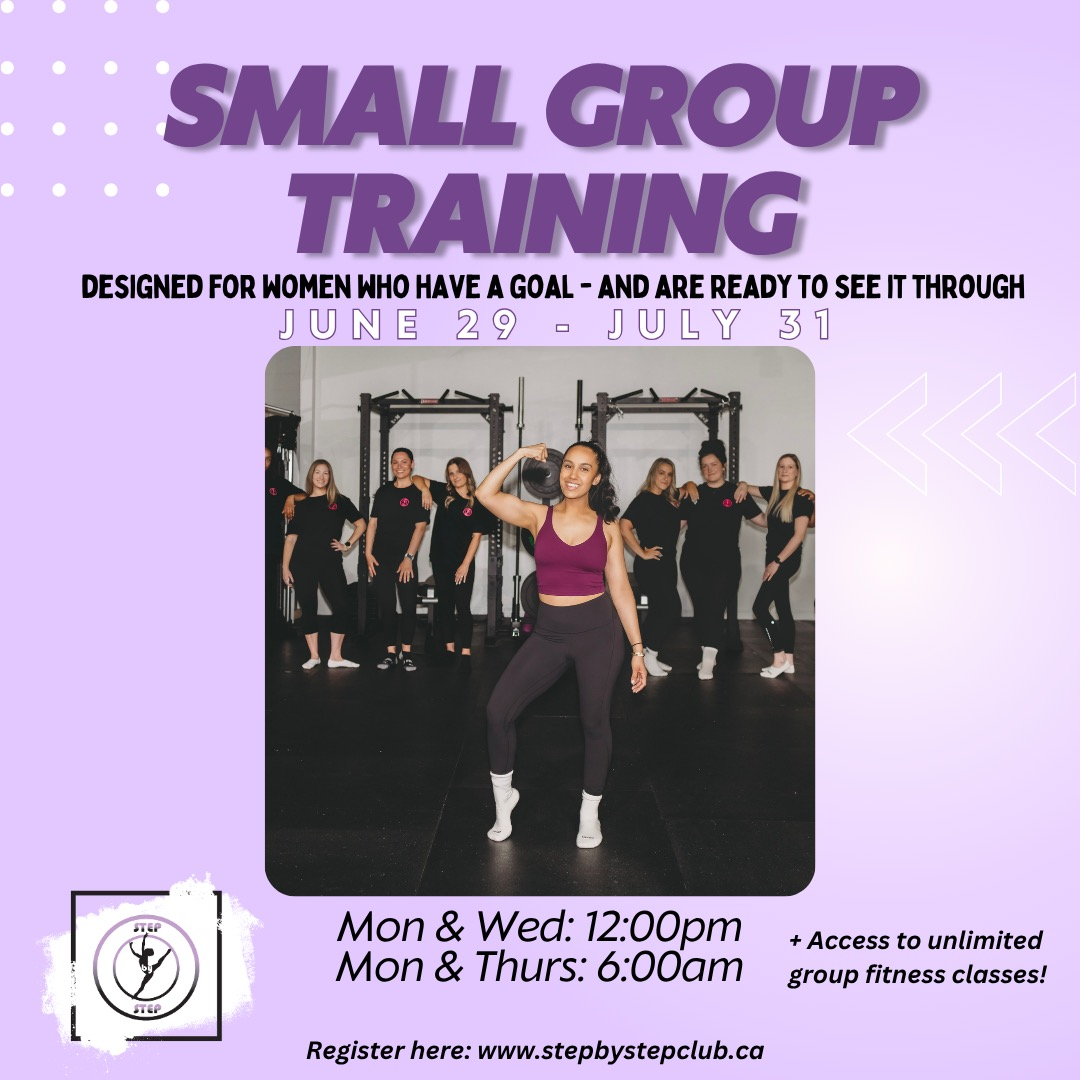
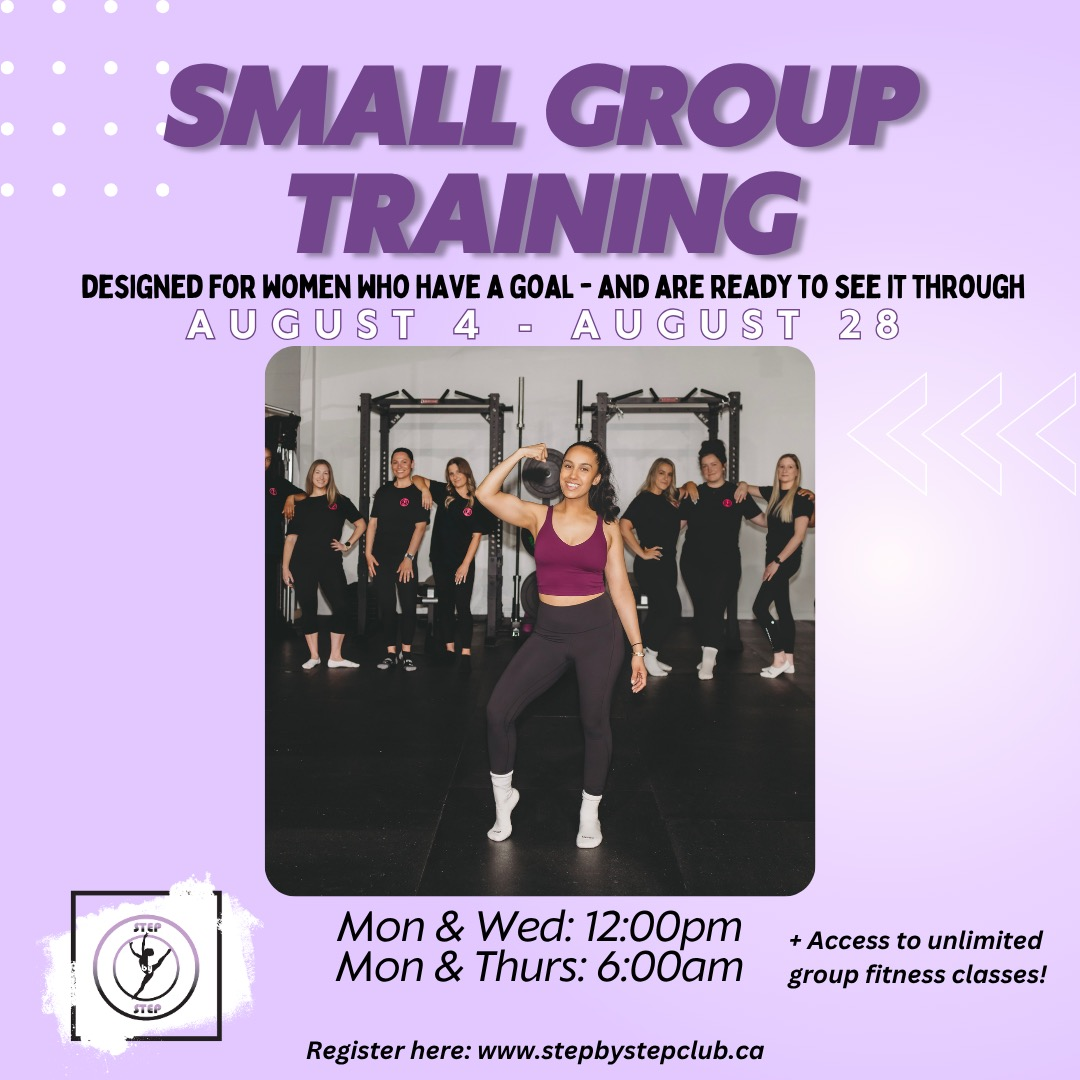
add special events and link

Changed region(s): [[0.5194, 0.275, 0.8556, 0.3361], [0.1528, 0.275, 0.3972, 0.3361], [0.4278, 0.275, 0.4889, 0.3361]]

diff --git a/client/src/pages/SpecialEvents/SpecialEvents.js b/client/src/pages/SpecialEvents/SpecialEvents.js
@@ -42,8 +42,7 @@ const SpecialEvents = () => {
 
   const linkToBuyTickets2 = () => {
     openRegistrationLink(
-      "https://www.wellnessliving.com/rs/catalog-list.html?a_shop_category%5B%5D=1102551&a_shop_category%5B%5D=1102664&is_filter=1&k_business=651877",
-      "catalog_list",
+      "https://www.wellnessliving.com/rs/catalog-payment.html?k_id=4215893&sid_purchase_item=promotion&id_sale=1&k_business=651877",
     );
   };
 
